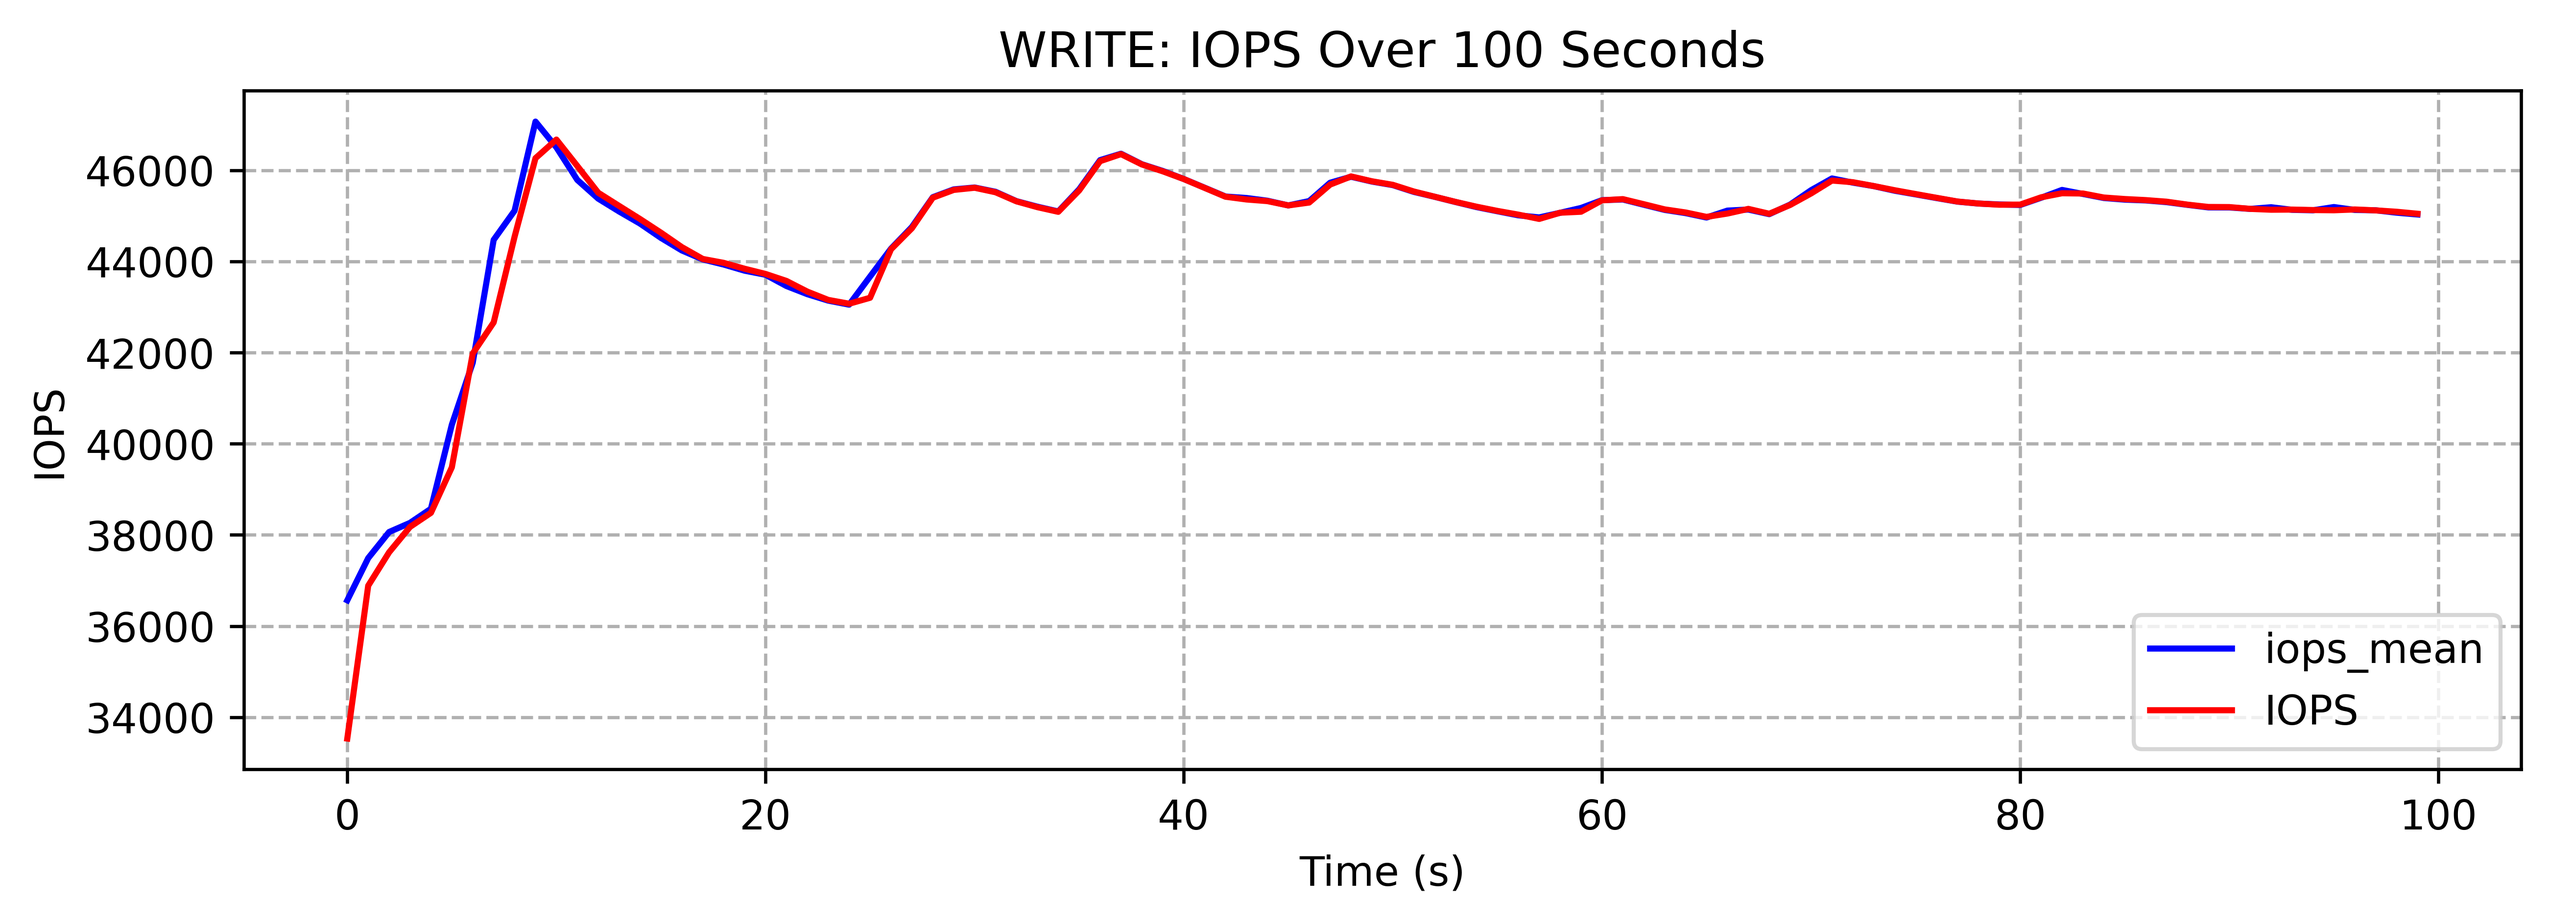
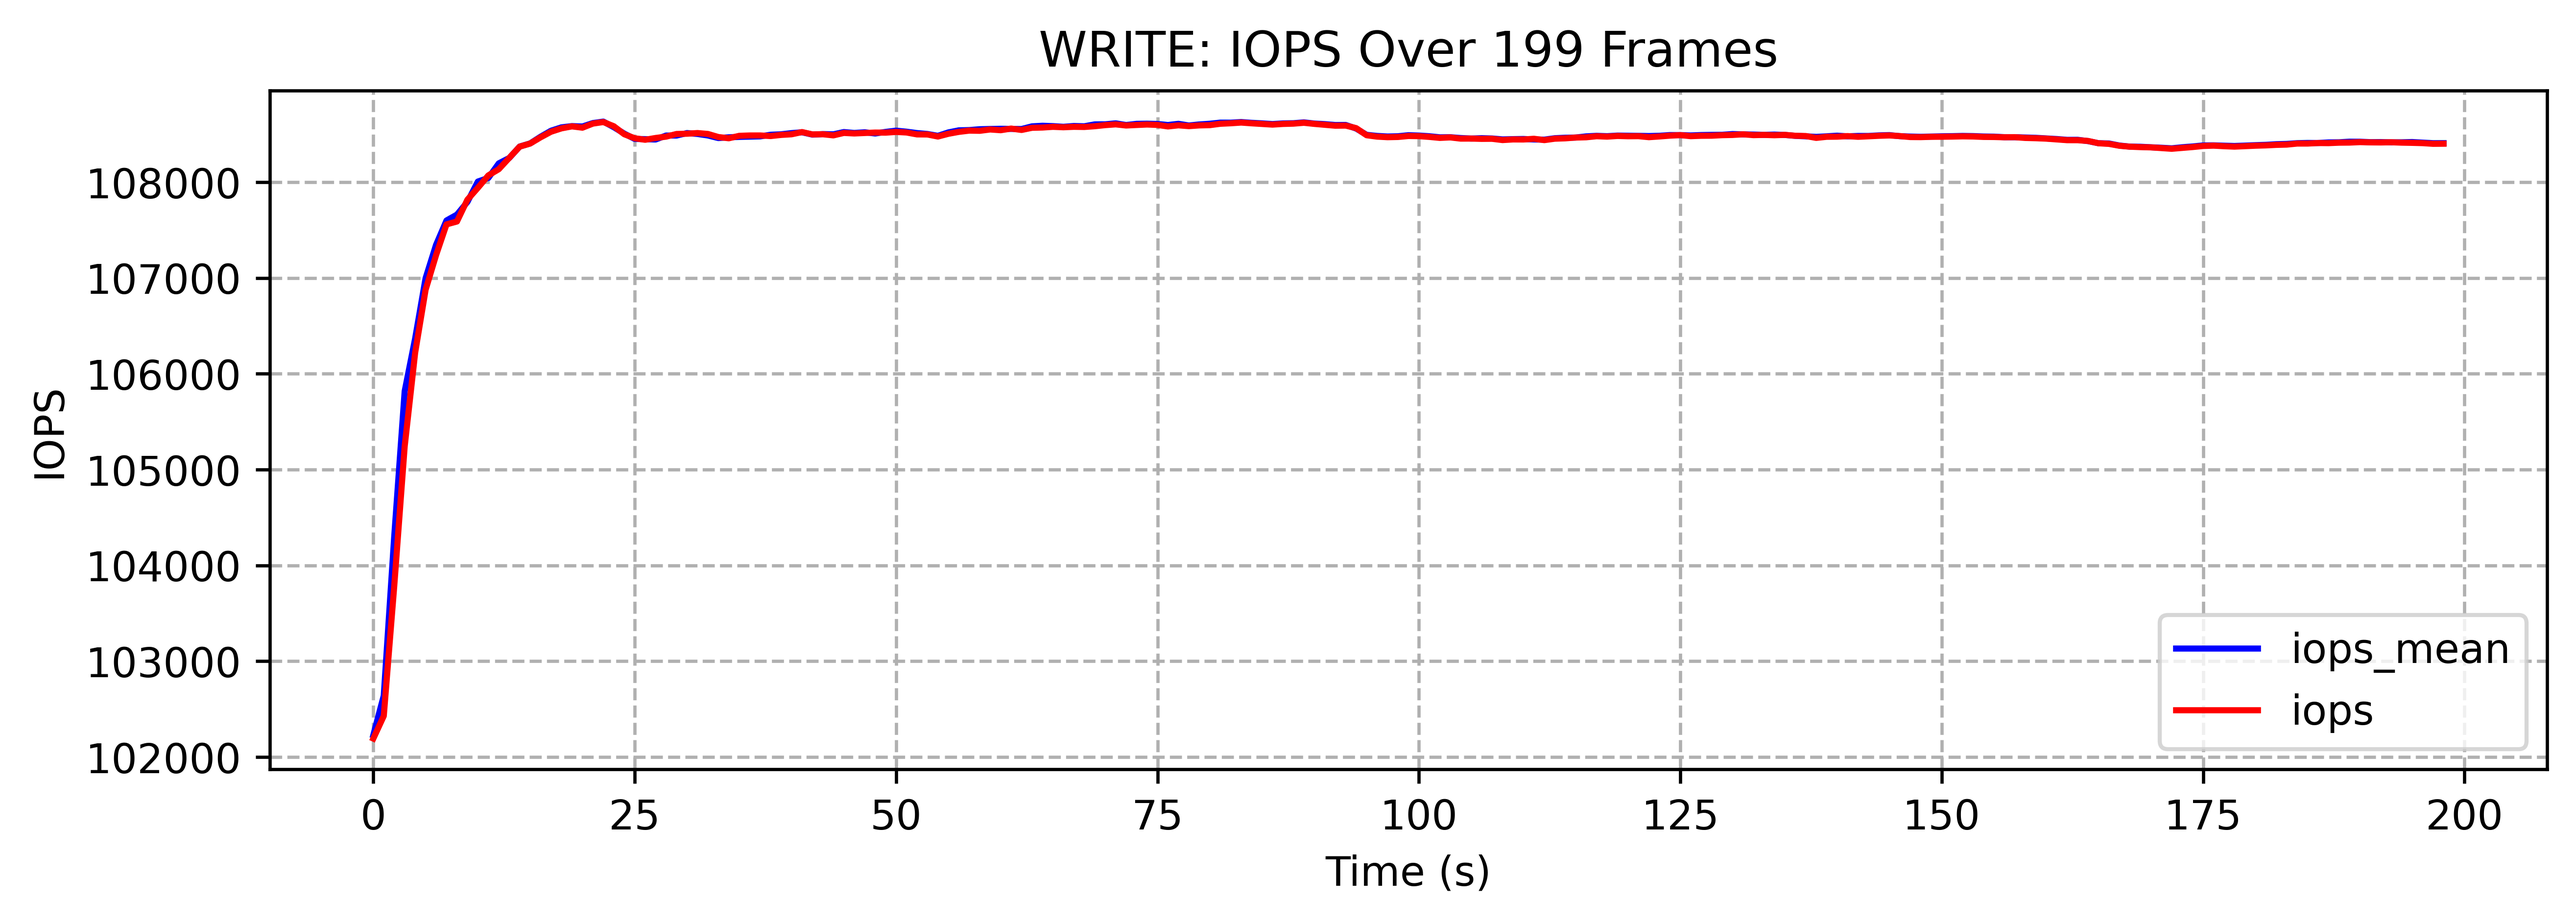
update visualize example

diff --git a/fioer/visualize.py b/fioer/visualize.py
@@ -17,43 +17,50 @@ def _load_json(file):
         data = json.load(f)
     return data
 
+def _create_fig():
+    return plt.subplots(figsize=(10, 3), dpi=_DPI)
+
 class FioView():
     
     def __init__(self, job):
         
         self._job = job
         self.output_file = self._job.get_file_directory("parsed.json")
-    
-    def view_latency(self, mode="write", type="", job_num=0):
+
+    def view_latency(self, mode="write", lat_type="", job_num=0, ax=None):
         
         output = _load_json(self.output_file)
         
-        if type not in LATENCY_TYPE:
-            raise ValueError(f"latency type not supported: {type}")
+        if lat_type not in LATENCY_TYPE:
+            raise ValueError(f"latency type not supported: {lat_type}")
         
         lenframe = len(output)
-        collect_lat_ns_mean = [ _frame["jobs"][job_num][mode][f"{type}_ns"]["mean"] for _frame in output]
+        collect_lat_ns_mean = [ _frame["jobs"][job_num][mode][f"{lat_type}_ns"]["mean"] for _frame in output]
         collect_cum_lat_ns_mean = cumsum(collect_lat_ns_mean)
         # ns trans to μs array
         collect_lat_mean = np.array(collect_lat_ns_mean) / 1000
         collect_cum_lat_mean = np.array(collect_cum_lat_ns_mean) / 1000
         
         
-        # 使用fig, ax的方式来创建matplotlib图
-        fig, ax = plt.subplots(figsize=(10, 3),dpi=_DPI)
+        #fig, ax
+        if not ax:
+            fig, ax = plt.subplots(figsize=(10, 3),dpi=_DPI)
+        else:
+            fig = ax.get_figure()
         
         # 绘制折线图
-        ax.plot(range(len(output)), collect_lat_mean, label=f"{type}_mean", color="b")
-        ax.plot(range(len(output)), collect_cum_lat_mean, label=f"{type}_mean_cum", color="r")
+        ax.plot(range(len(output)), collect_lat_mean, label=f"{lat_type}_mean", color="b")
+        ax.plot(range(len(output)), collect_cum_lat_mean, label=f"{lat_type}_mean_cum", color="r")
         
         # 添加标题和标签
-        ax.set_title(f"WRITE: {type.upper()} Latency Changes Over {lenframe} Frames")
+        ax.set_title(f"{mode.upper()}: Latency: {lat_type.upper()} Over {lenframe} Frames")
         ax.set_xlabel("Time (Frame)")
         ax.set_ylabel("Latency (μs)")
         
         # 显示网格和图例
         ax.grid(True)
         ax.legend()
+        
         
         #grid setting: "--"
         ax.grid(True, linestyle='--')
@@ -62,9 +69,10 @@ class FioView():
         
         return fig, ax
 
-    def view_iops(self, mode, job_num=0):
+    def view_iops(self, mode, job_num=0, ax=None):
         
         output = _load_json(self.output_file)
+        lenframe = len(output)
         
         collect_iops_mean = [frame["jobs"][0][mode]["iops"] for frame in output]
         collect_iops      = [frame["jobs"][0][mode]["iops_mean"] for frame in output]
@@ -76,15 +84,18 @@ class FioView():
         # traj[0]["jobs"][0]["write"]["iops_stddev"]
         #traj[0]["jobs"][0]["write"]["iops_samples"]
 
-        # 使用fig, ax的方式来创建matplotlib图
-        fig, ax = plt.subplots(figsize=(10, 3),dpi=_DPI)
+        #fig, ax
+        if not ax:
+            fig, ax = plt.subplots(figsize=(10, 3),dpi=_DPI)
+        else:
+            fig = ax.get_figure()
 
         # 绘制折线图
         ax.plot(range(len(output)), collect_iops_mean, label="iops_mean", color="b")
         ax.plot(range(len(output)), collect_iops     , label="iops", color="r")
 
         # 添加标题和标签
-        ax.set_title("WRITE: IOPS Over 100 Seconds")
+        ax.set_title(f"{mode.upper()}: IOPS Over {lenframe} Frames")
         ax.set_xlabel("Time (s)")
         ax.set_ylabel("IOPS")
 
@@ -92,7 +103,6 @@ class FioView():
         ax.grid(True)
         ax.legend()
 
-        #
         # ax.set_xlim(0,100)
         # ax.set_ylim(0,1000000)
 
@@ -101,5 +111,22 @@ class FioView():
 
         # 显示图像
         plt.show()
+        return fig, ax
 
 
+    def overview_latency(self, mode="write", lat_type="lat"):
+        
+        # 总图,包含job_num个子图, n行1列
+        output = _load_json(self.output_file)
+        job_num = len(output[0]["jobs"])
+        print(job_num)
+        fig, axs = plt.subplots(job_num, 1, figsize=(10, 3 * job_num), dpi=_DPI)
+        
+        #avoiding subscriptable error
+        if job_num == 1:
+            axs = [axs]
+
+        for i in range(job_num):
+            self.view_latency(mode=mode, lat_type=lat_type, job_num=i, ax=axs[i])
+        plt.show()
+            

diff --git a/README.md b/README.md
@@ -27,7 +27,7 @@ bs=4K
 direct=1
 numjobs=8
 time_based=1
-runtime=100
+runtime=200
 ioengine=libaio
 iodepth=16
 
@@ -42,5 +42,10 @@ size=10M
 ## data visualization
 from data(parsed.json)
 
+```python
+randw.view.view_iops(mode="write")
+randw.view.view_latency(mode="write", lat_type="lat")
+```
+
 ![iops](./images/iops.png)
-![latency-total](./images/lat_ns.png)
+![latency-total](./images/latency.png)
